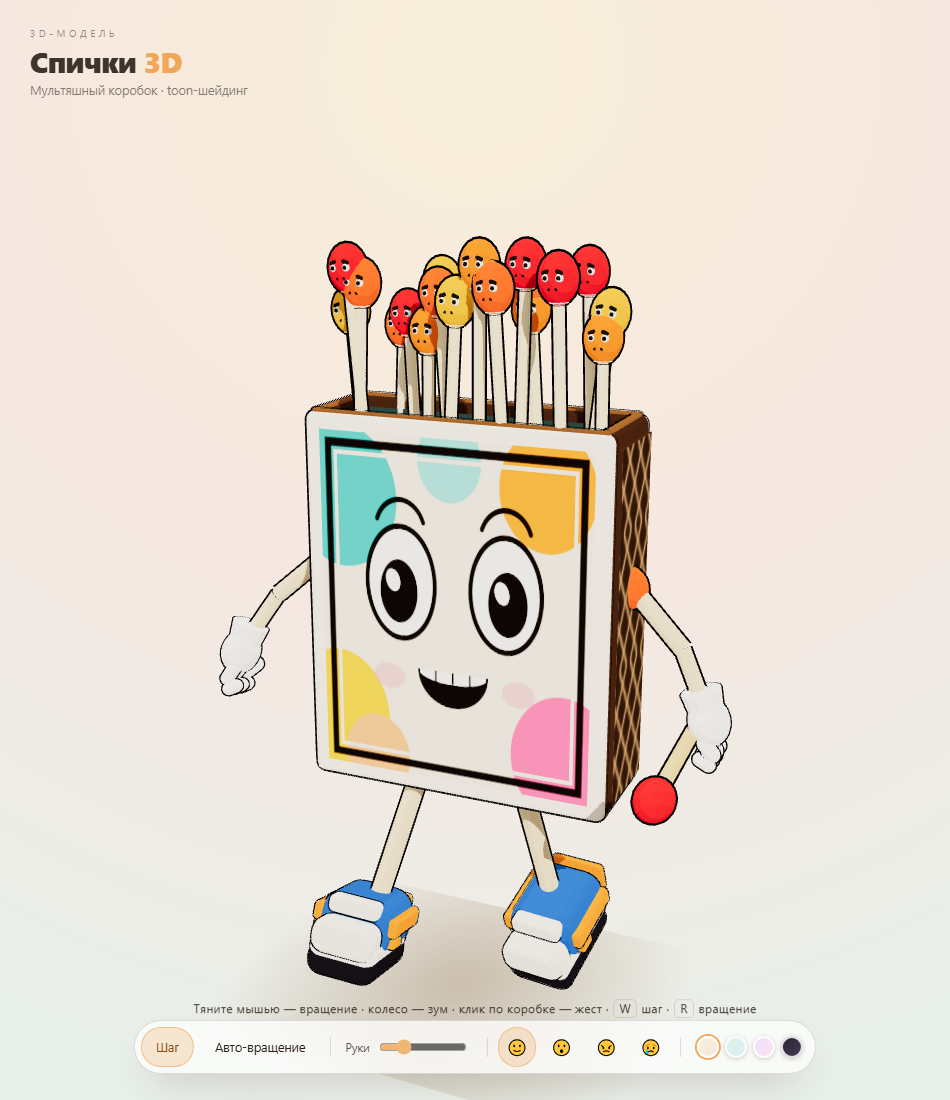
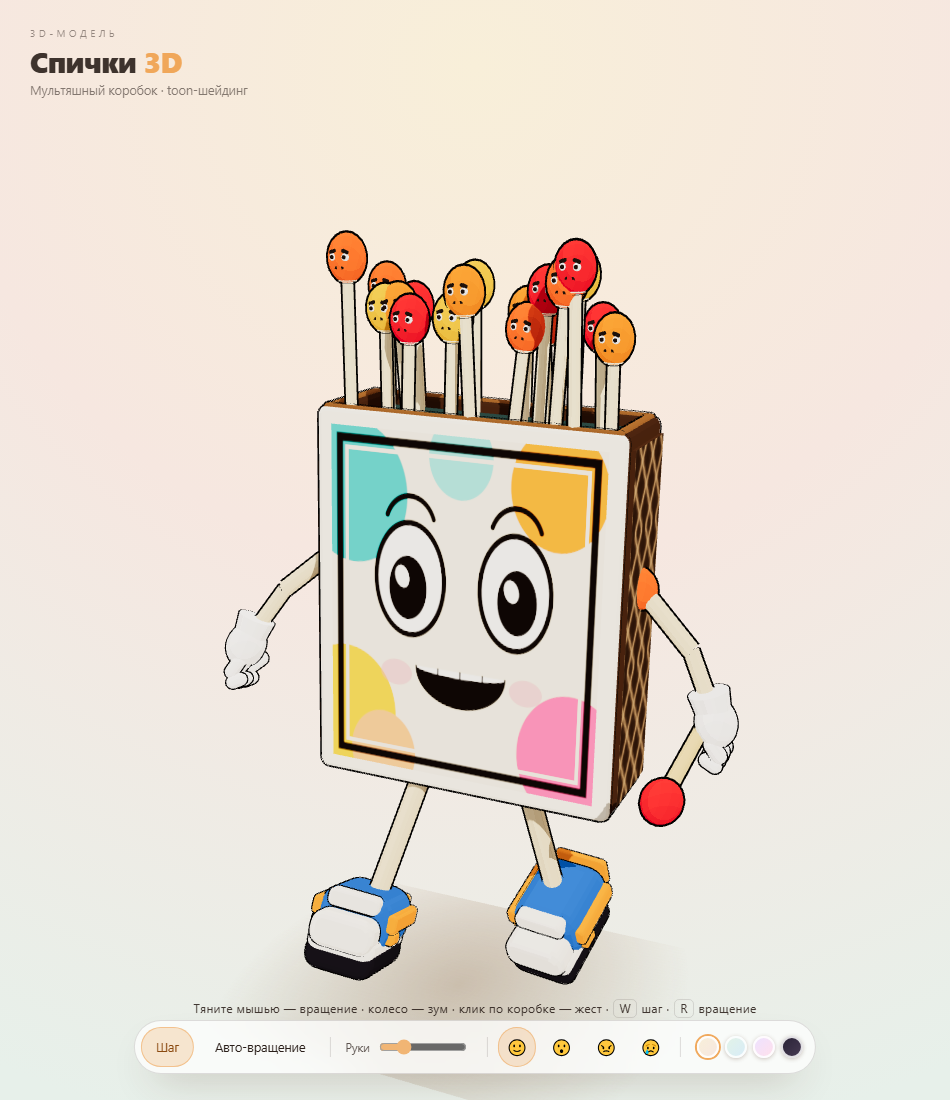
style(matchbox): wider joy smile with smaller teeth row

Changed region(s): [[0.2137, 0.2164, 0.7937, 0.8964], [0.3053, 0.7727, 0.4579, 0.8964]]

diff --git a/dist/matchbox.html b/dist/matchbox.html
@@ -285,15 +285,15 @@ function drawLabel(mode){
   g.strokeStyle = '#1d1512'; g.fillStyle = '#1d1512'; g.lineWidth = 20; g.lineCap = 'round';
   if (mode === 'joy'){
     // широкий открытый смех: тёмная полуэллипсная пасть + верхний ряд зубов
-    g.beginPath(); g.ellipse(512, 686, 132, 104, 0, 0, Math.PI); g.fill();
+    g.beginPath(); g.ellipse(512, 690, 172, 112, 0, 0, Math.PI); g.fill();
     g.fillStyle = '#ffffff';
-    g.beginPath(); g.ellipse(512, 686, 132, 34, 0, 0, Math.PI); g.fill();
+    g.beginPath(); g.ellipse(512, 690, 172, 19, 0, 0, Math.PI); g.fill();
     g.fillStyle = '#1d1512';
-    g.lineWidth = 8;
+    g.lineWidth = 6;
     for (let i = 1; i < 4; i++){
-      g.beginPath(); g.moveTo(512 - 132 + i * 66, 686); g.lineTo(512 - 132 + i * 66, 716); g.stroke();
+      g.beginPath(); g.moveTo(512 - 172 + i * 86, 690); g.lineTo(512 - 172 + i * 86, 707); g.stroke();
     }
-    g.beginPath(); g.ellipse(512, 686, 132, 104, 0, 0, Math.PI); g.stroke();
+    g.beginPath(); g.ellipse(512, 690, 172, 112, 0, 0, Math.PI); g.stroke();
   } else if (mode === 'surprise'){
     g.beginPath(); g.ellipse(512, 752, 58, 76, 0, 0, Math.PI * 2); g.fill();
   } else if (mode === 'anger'){

diff --git a/src/matchbox/index.html b/src/matchbox/index.html
@@ -278,15 +278,15 @@ function drawLabel(mode){
   g.strokeStyle = '#1d1512'; g.fillStyle = '#1d1512'; g.lineWidth = 20; g.lineCap = 'round';
   if (mode === 'joy'){
     // широкий открытый смех: тёмная полуэллипсная пасть + верхний ряд зубов
-    g.beginPath(); g.ellipse(512, 686, 132, 104, 0, 0, Math.PI); g.fill();
+    g.beginPath(); g.ellipse(512, 690, 172, 112, 0, 0, Math.PI); g.fill();
     g.fillStyle = '#ffffff';
-    g.beginPath(); g.ellipse(512, 686, 132, 34, 0, 0, Math.PI); g.fill();
+    g.beginPath(); g.ellipse(512, 690, 172, 19, 0, 0, Math.PI); g.fill();
     g.fillStyle = '#1d1512';
-    g.lineWidth = 8;
+    g.lineWidth = 6;
     for (let i = 1; i < 4; i++){
-      g.beginPath(); g.moveTo(512 - 132 + i * 66, 686); g.lineTo(512 - 132 + i * 66, 716); g.stroke();
+      g.beginPath(); g.moveTo(512 - 172 + i * 86, 690); g.lineTo(512 - 172 + i * 86, 707); g.stroke();
     }
-    g.beginPath(); g.ellipse(512, 686, 132, 104, 0, 0, Math.PI); g.stroke();
+    g.beginPath(); g.ellipse(512, 690, 172, 112, 0, 0, Math.PI); g.stroke();
   } else if (mode === 'surprise'){
     g.beginPath(); g.ellipse(512, 752, 58, 76, 0, 0, Math.PI * 2); g.fill();
   } else if (mode === 'anger'){
